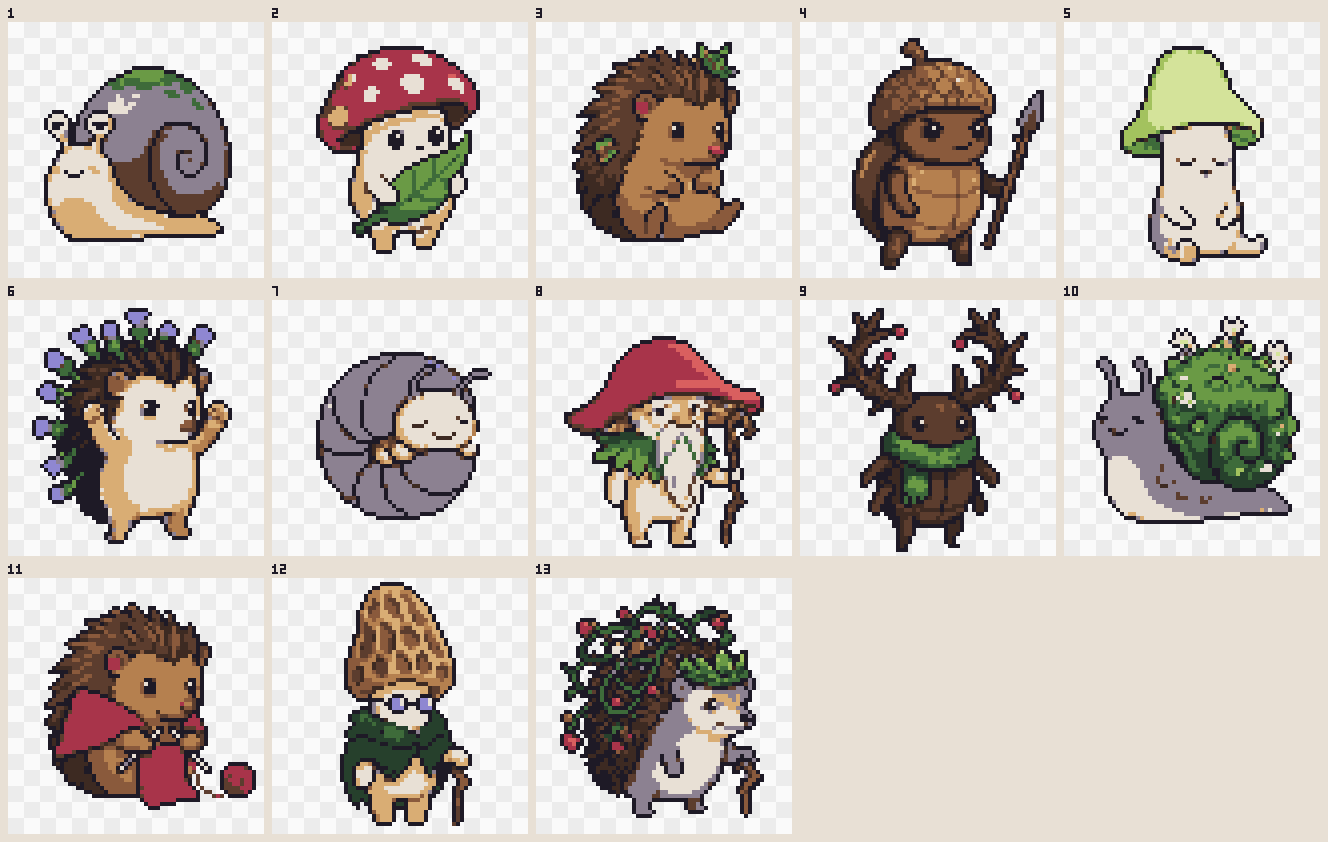
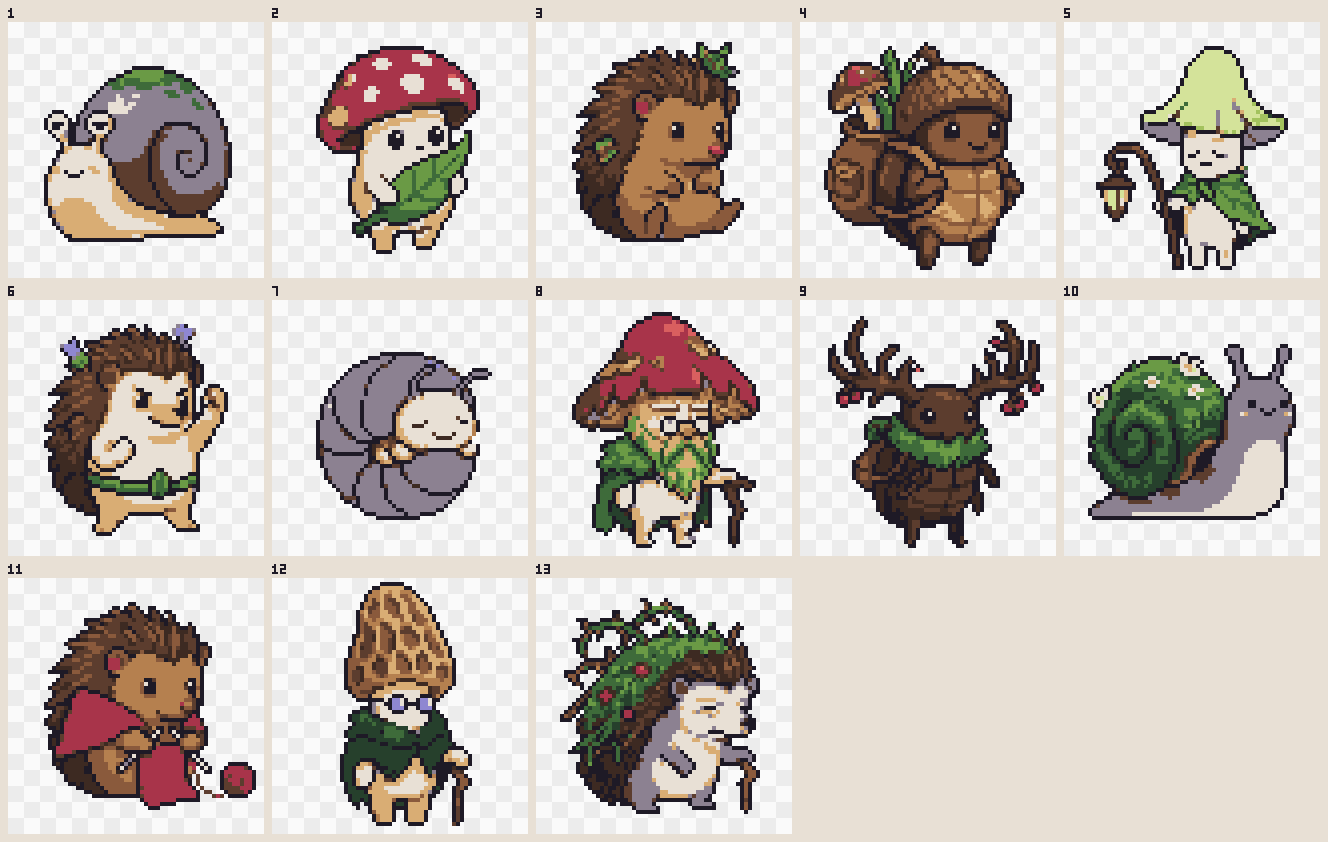
feat(artgen): T05 promote approved card art for all 26 cards
User-approved picks promoted to apps/client/public/assets/cards. Adds
`promote --recentre` (whole-pixel horizontal centring, used for STA-001)
and the catalog art test (approved candidate, unchanged or shifted by
whole pixels, uncropped 64×64). T05 handoff notes; GDD §29 entry.

Claude-Session: https://claude.ai/code/session_01TCarrLKzUqGQC8MfSaMtba

diff --git a/tools/artgen/src/promote.ts b/tools/artgen/src/promote.ts
@@ -1,24 +1,36 @@
-import { copyFile, mkdir } from 'node:fs/promises';
+import { copyFile, mkdir, readFile, writeFile } from 'node:fs/promises';
 import { dirname } from 'node:path';
 import { findEntry, type Manifest } from './manifest.js';
 import { fromRepo } from './paths.js';
+import { decodePng, encodePng } from './png.js';
+import { recentreOffsetX, translate } from './shift.js';
 
 /**
  * Copies an approved candidate to its final repo path. Approved files are immutable
- * (GDD §19), so an existing destination is never overwritten.
+ * (GDD §19), so an existing destination is never overwritten. With `recentre`, the
+ * sprite is moved horizontally by whole pixels so its opaque bbox is centred (no
+ * resampling). Returns the applied horizontal shift.
  */
 export async function promote(
   manifest: Manifest,
   entryId: string,
   index: number,
   dest: string,
-): Promise<void> {
+  opts: { recentre?: boolean } = {},
+): Promise<number> {
   const output = findEntry(manifest, entryId)?.outputs.find((o) => o.index === index);
   if (!output) throw new Error(`no candidate ${entryId} #${String(index)}`);
   if (output.review !== 'approved') throw new Error(`${entryId} #${String(index)} is not approved`);
   await mkdir(dirname(fromRepo(dest)), { recursive: true });
   try {
-    await copyFile(fromRepo(output.file), fromRepo(dest), 1 /* COPYFILE_EXCL */);
+    if (!opts.recentre) {
+      await copyFile(fromRepo(output.file), fromRepo(dest), 1 /* COPYFILE_EXCL */);
+      return 0;
+    }
+    const png = decodePng(await readFile(fromRepo(output.file)));
+    const dx = recentreOffsetX(png);
+    await writeFile(fromRepo(dest), encodePng(translate(png, dx, 0)), { flag: 'wx' });
+    return dx;
   } catch (e) {
     if ((e as NodeJS.ErrnoException).code === 'EEXIST') {
       throw new Error(`${dest} exists; approved files are immutable, use a new filename`, {

diff --git a/tools/artgen/src/shift.ts b/tools/artgen/src/shift.ts
@@ -1,0 +1,46 @@
+import { PNG } from 'pngjs';
+import { imageStats } from './png.js';
+
+/**
+ * Moves every pixel by whole pixels (no resampling); fully transparent pixels become
+ * (0, 0, 0, 0). Pixels shifted off the canvas are an error.
+ */
+export function translate(png: PNG, dx: number, dy: number): PNG {
+  const { width, height, data } = png;
+  const out = new PNG({ width, height });
+  for (let y = 0; y < height; y++) {
+    for (let x = 0; x < width; x++) {
+      const i = (y * width + x) * 4;
+      if ((data[i + 3] ?? 0) === 0) continue;
+      const nx = x + dx;
+      const ny = y + dy;
+      if (nx < 0 || ny < 0 || nx >= width || ny >= height) {
+        throw new Error(`shift (${String(dx)}, ${String(dy)}) moves pixels off the canvas`);
+      }
+      data.copy(out.data, (ny * width + nx) * 4, i, i + 4);
+    }
+  }
+  return out;
+}
+
+/** Horizontal offset that centres the opaque bounding box (rounded towards the left). */
+export function recentreOffsetX(png: PNG): number {
+  const { bbox, width } = imageStats(png);
+  if (!bbox) return 0;
+  return Math.floor((width - (bbox.x1 - bbox.x0 + 1)) / 2) - bbox.x0;
+}
+
+/** True when `b` is `a` moved by whole pixels: same size and identical opaque pixels. */
+export function sameUpToTranslation(a: PNG, b: PNG): boolean {
+  if (a.width !== b.width || a.height !== b.height) return false;
+  const sa = imageStats(a).bbox;
+  const sb = imageStats(b).bbox;
+  if (!sa || !sb) return sa === sb;
+  try {
+    const moved = translate(a, sb.x0 - sa.x0, sb.y0 - sa.y0);
+    // Normalise b too: transparent pixels may carry arbitrary RGB.
+    return moved.data.equals(translate(b, 0, 0).data);
+  } catch {
+    return false;
+  }
+}

diff --git a/tools/artgen/src/main.ts b/tools/artgen/src/main.ts
@@ -20,7 +20,9 @@ const USAGE = `artgen <command>
   gallery [--port 5180]                    local review gallery (approve/reject → manifest)
   export-gallery <out.html>                read-only gallery with embedded images
   review <entry> <index> <approved|rejected|pending> [note]
-  promote <entry> <index> <dest.png>       copy an approved candidate to its final path
+  promote <entry> <index> <dest.png> [--recentre]
+                                           copy an approved candidate to its final path
+                                           (--recentre: centre it horizontally, whole pixels)
   spend                                    total generations logged in the manifest`;
 
 const log = (msg: string) => {
@@ -36,6 +38,7 @@ async function main(argv: string[]): Promise<void> {
       only: { type: 'string' },
       budget: { type: 'string' },
       port: { type: 'string', default: '5180' },
+      recentre: { type: 'boolean', default: false },
     },
   });
   const [command, ...rest] = positionals;
@@ -129,8 +132,10 @@ async function main(argv: string[]): Promise<void> {
     case 'promote': {
       const [entryId, index, dest] = rest;
       if (!entryId || !index || !dest) throw new Error(USAGE);
-      await promote(await readManifest(), entryId, Number(index), dest);
-      log(`${entryId} #${index} → ${dest}`);
+      const shift = await promote(await readManifest(), entryId, Number(index), dest, {
+        recentre: values.recentre,
+      });
+      log(`${entryId} #${index} → ${dest}${shift ? ` (shifted ${String(shift)} px)` : ''}`);
       return;
     }
     case 'spend': {

diff --git a/tools/artgen/src/shift.test.ts b/tools/artgen/src/shift.test.ts
@@ -1,0 +1,42 @@
+import { PNG } from 'pngjs';
+import { describe, expect, it } from 'vitest';
+import { imageStats } from './png.js';
+import { recentreOffsetX, sameUpToTranslation, translate } from './shift.js';
+
+function sprite(x0: number, x1: number): PNG {
+  const png = new PNG({ width: 8, height: 4 });
+  for (let x = x0; x <= x1; x++) {
+    const i = (1 * 8 + x) * 4;
+    png.data.set([x * 10, 20, 30, 255], i);
+  }
+  return png;
+}
+
+describe('pixel shifting', () => {
+  it('re-centres the opaque bbox without changing pixels', () => {
+    const png = sprite(4, 7); // touches the right edge
+    expect(recentreOffsetX(png)).toBe(-2);
+    const moved = translate(png, recentreOffsetX(png), 0);
+    expect(imageStats(moved).bbox).toEqual({ x0: 2, y0: 1, x1: 5, y1: 1 });
+    expect(sameUpToTranslation(png, moved)).toBe(true);
+  });
+
+  it('ignores the RGB of fully transparent pixels', () => {
+    const a = sprite(1, 3);
+    const b = sprite(1, 3);
+    b.data.set([9, 9, 9, 0], 0);
+    expect(sameUpToTranslation(a, b)).toBe(true);
+  });
+
+  it('refuses shifts that push pixels off the canvas', () => {
+    expect(() => translate(sprite(4, 7), 1, 0)).toThrow(/off the canvas/);
+  });
+
+  it('tells different sprites apart', () => {
+    const a = sprite(1, 3);
+    const b = sprite(1, 3);
+    b.data[(1 * 8 + 2) * 4] = 99;
+    expect(sameUpToTranslation(a, b)).toBe(false);
+    expect(sameUpToTranslation(a, sprite(1, 4))).toBe(false);
+  });
+});

diff --git a/tools/artgen/src/cardArt.test.ts b/tools/artgen/src/cardArt.test.ts
@@ -1,0 +1,32 @@
+import { readFile } from 'node:fs/promises';
+import { describe, expect, it } from 'vitest';
+import { CARD_CATALOG, ENABLED_REALMS } from '@pixel-packs/shared';
+import { readManifest } from './manifest.js';
+import { fromRepo } from './paths.js';
+import { decodePng, imageStats } from './png.js';
+import { sameUpToTranslation } from './shift.js';
+
+/**
+ * Catalog art test (T05): every card of an enabled realm ships a 64×64 sprite that is an
+ * approved manifest candidate, unchanged or moved by whole pixels (`promote --recentre`).
+ */
+describe('card art', async () => {
+  const manifest = await readManifest();
+  const approved = await Promise.all(
+    manifest.entries
+      .flatMap((e) => e.outputs.filter((o) => o.review === 'approved'))
+      .map(async (o) => decodePng(await readFile(fromRepo(o.file)))),
+  );
+  const cards = CARD_CATALOG.filter((c) => ENABLED_REALMS.includes(c.realm));
+
+  it('covers every card of the enabled realms', () => {
+    expect(cards.length).toBe(26);
+  });
+
+  it.each(cards.map((c) => c.id))('%s is an approved, uncropped 64×64 sprite', async (id) => {
+    const png = decodePng(await readFile(fromRepo(`apps/client/public/assets/cards/${id}.png`)));
+    expect(png).toMatchObject({ width: 64, height: 64 });
+    expect(imageStats(png).touchesEdge).toBe(false);
+    expect(approved.some((a) => sameUpToTranslation(a, png))).toBe(true);
+  });
+});

diff --git a/tools/artgen/src/anchors.test.ts b/tools/artgen/src/anchors.test.ts
@@ -1,6 +1,6 @@
 import { readFile } from 'node:fs/promises';
 import { describe, expect, it } from 'vitest';
-import { CARD_CATALOG, ENABLED_REALMS } from '@pixel-packs/shared';
+import { ENABLED_REALMS } from '@pixel-packs/shared';
 import { loadAnchors } from './anchors.js';
 import { readManifest } from './manifest.js';
 import { fromRepo } from './paths.js';
@@ -28,14 +28,6 @@ describe('approved style anchors', async () => {
           path,
         ).toBe(true);
       }
-    }
-  });
-
-  it('ships committed card art only for cards in the catalog, at 64×64', async () => {
-    for (const id of ['MOS-003', 'MOS-012', 'STA-003', 'STA-012']) {
-      expect(CARD_CATALOG.some((c) => c.id === id)).toBe(true);
-      const png = decodePng(await readFile(fromRepo(`apps/client/public/assets/cards/${id}.png`)));
-      expect(png).toMatchObject({ width: 64, height: 64 });
     }
   });
 });

diff --git a/docs/TASKS.md b/docs/TASKS.md
@@ -13,7 +13,7 @@ Each task lists the GDD sections to read (§ = section of `docs/GDD.md`) and its
 | T02 | Game rules core (odds, pack roll, pity, scores) | T01 | done |
 | T03 | Card set design: Mossgrove & Starhollow (26 cards) | T02 | done |
 | T04 | PixelLab pipeline + style anchors | T01, T03 | done |
-| T05 | Card art batch | T04 | todo |
+| T05 | Card art batch | T04 | done |
 | T06 | Frames, packs, UI art + style tile | T04 | todo |
 | T07 | Client design system & app shell | T06 | todo |
 | T08 | Database & email auth (API) | T02 | done |
@@ -159,12 +159,22 @@ Docs: §19
   - **Repo contents**: all 64 candidates and their contact sheets stay in `tools/artgen/candidates/anchors/` (≈560 KB) so the manifest's review history resolves.
   - Verified: `pnpm typecheck`, `pnpm lint`, `pnpm test` pass.
 
-### T05 — Card art batch · M · budget ≤ 260
+### T05 — Card art batch · M · budget ≤ 260 · done
 Docs: §19
 - Generate the remaining card art with the anchors and realm palettes.
 - Show the review gallery and get **user approval**.
 - Regenerate rejects (at most 2 retries, then revise the prompt).
 - **Done when**: all 26 approved arts are committed as `apps/client/public/assets/cards/<id>.png` and the catalog art test passes.
+- **Handoff notes (2026-11-23)**:
+  - **Spend**: 250 of 260 generations (25 × `/generate-with-style-v2` at 10 each, confirmed by the receipts). All of it is logged in `tools/artgen/manifest.json` under `cards/*`. The user raised the cap from ≤ 70 to ≤ 230, then to ≤ 260 for three retries (GDD §29).
+  - **Spec**: `tools/artgen/specs/cards.json`, one job per card, built from `anchors.json`: realm anchors as `style_images`, the realm palette, the fixed `style_description`, the §19 template and `no_background`. Seeds are 5100 + n for Mossgrove and 5200 + n for Starhollow; the `-r1` retries add 200.
+  - **Art**: all 26 cards are in `apps/client/public/assets/cards/<id>.png` (64×64, none touching the edge). The user approved every pick; it is marked `approved` in the manifest. Overview sheets with tile number = card number: `tools/artgen/candidates/cards/picks-{mossgrove,starhollow}.png`. All candidates and contact sheets stay in `tools/artgen/candidates/cards/` (≈3.6 MB).
+  - **Retries**: MOS-005 Lantern Shroom now holds a lantern in its hand (prompt revised); MOS-006 Thistle Hedgehog and STA-004 Lamplight Moth were regenerated with revised prompts. The new prompts are in the catalog.
+  - **Rename**: STA-008 is now "Mail Moth" (name only; GDD §29). Its candidate folder keeps the old job id `sta-008-post-moth`.
+  - **Recentring**: STA-001 Dusk Moth #12 touched the right edge, so it was promoted with `promote --recentre`. That shifts the sprite 3 px left in whole pixels, with no resampling (user decision, GDD §29).
+  - **Catalog art test**: `tools/artgen/src/cardArt.test.ts`. Every enabled-realm card has a 64×64, uncropped sprite that equals an approved manifest candidate, either unchanged or moved by whole pixels (`sameUpToTranslation` in `src/shift.ts`). It replaces the 4-card check in `anchors.test.ts`.
+  - **Still open for T07/T11**: the art has no common feet baseline. Bottom opaque rows run from y = 54 to y = 62. Align it in the frame (bottom-align the bbox) rather than editing the files.
+  - Verified: `pnpm typecheck`, `pnpm lint`, `pnpm test` (198 tests) pass.
 
 ### T06 — Frames, packs, UI art + style tile · L · budget ≤ 60
 Docs: §4 (card face), §16, §19

diff --git a/tools/artgen/README.md b/tools/artgen/README.md
@@ -9,13 +9,13 @@ pnpm --filter @pixel-packs/artgen start run tools/artgen/specs/anchors.json --bu
 pnpm --filter @pixel-packs/artgen start gallery            # http://127.0.0.1:5180, approve/reject → manifest
 pnpm --filter @pixel-packs/artgen start export-gallery out.html
 pnpm --filter @pixel-packs/artgen start review <entry> <index> approved|rejected|pending [note]
-pnpm --filter @pixel-packs/artgen start promote <entry> <index> apps/client/public/assets/cards/<id>.png
+pnpm --filter @pixel-packs/artgen start promote <entry> <index> apps/client/public/assets/cards/<id>.png [--recentre]
 pnpm --filter @pixel-packs/artgen start spend
 ```
 
 - **Specs** (`specs/*.json`, schema in `src/spec.ts`): jobs for `generate-image-v2` or `generate-with-style-v2`. A job names a `cardId` (its `artPrompt` is wrapped in the §19 template, `src/prompt.ts`) or a raw `description`, plus `palette` (a realm, `master` or `none`), `seed` and `outDir`.
 - **Run**: checks the balance, skips jobs already completed in the manifest, stops at `--budget` (generations, required), writes candidates as `<outDir>/NN.png` plus a numbered 4× `sheet.png`, and appends each job to `manifest.json` straight away.
 - **Manifest** (`manifest.json`, machine-written): endpoint, params (image data replaced by paths), seed, background job id, cost (generations and USD), status, and review state per candidate.
-- **Promote**: approved files are immutable; `promote` refuses to overwrite.
+- **Promote**: approved files are immutable; `promote` refuses to overwrite. `--recentre` shifts the sprite horizontally by whole pixels so its opaque bbox is centred (no resampling); the card art test (`src/cardArt.test.ts`) accepts such shifts of an approved candidate.
 - The key is injected by the cloud proxy (`NODE_USE_ENV_PROXY=1` in the start script makes Node's `fetch` use it). Locally, set `PIXELLAB_API_KEY`.
 - Approved style anchors and their `style_description`: `anchors.json`.

diff --git a/docs/GDD.md b/docs/GDD.md
@@ -517,3 +517,4 @@ The task breakdown is in `docs/TASKS.md`.
 | 2026-11-23 | T05: card art keeps the Pro `/generate-with-style-v2` endpoint (10 generations per card, 16 candidates) with each realm's anchors; T05's budget is ≤ 230 (22 cards + one retry) instead of ≤ 70 (user decision) |
 | 2026-11-23 | T05: the user raised T05's cap to ≤ 260 for three regenerations (Lantern Shroom, Thistle Hedgehog, Lamplight Moth); the Lantern Shroom now holds a lantern, and the three art prompts were revised |
 | 2026-11-23 | T05: STA-008 "Post Moth" is renamed "Mail Moth" (name only; ID, stats and abilities unchanged; user decision) |
+| 2026-11-23 | T05: final art may be an approved candidate moved by whole pixels (no resampling), e.g. `promote --recentre` to centre a sprite that touches the canvas edge (STA-001); the catalog art test accepts such shifts |
